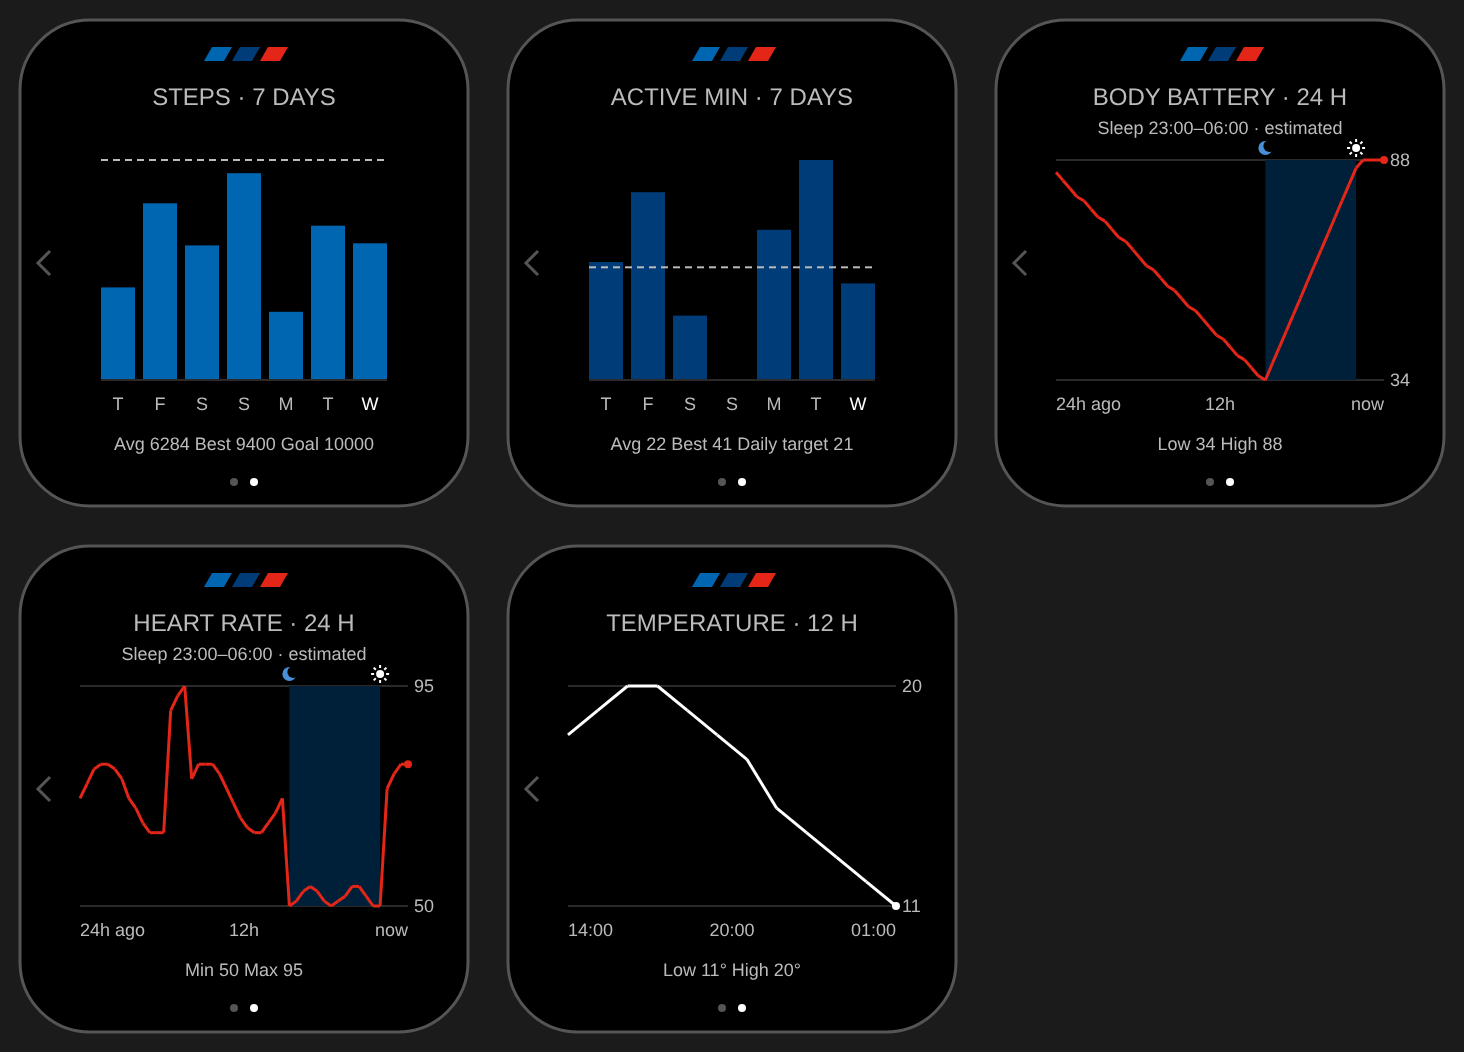
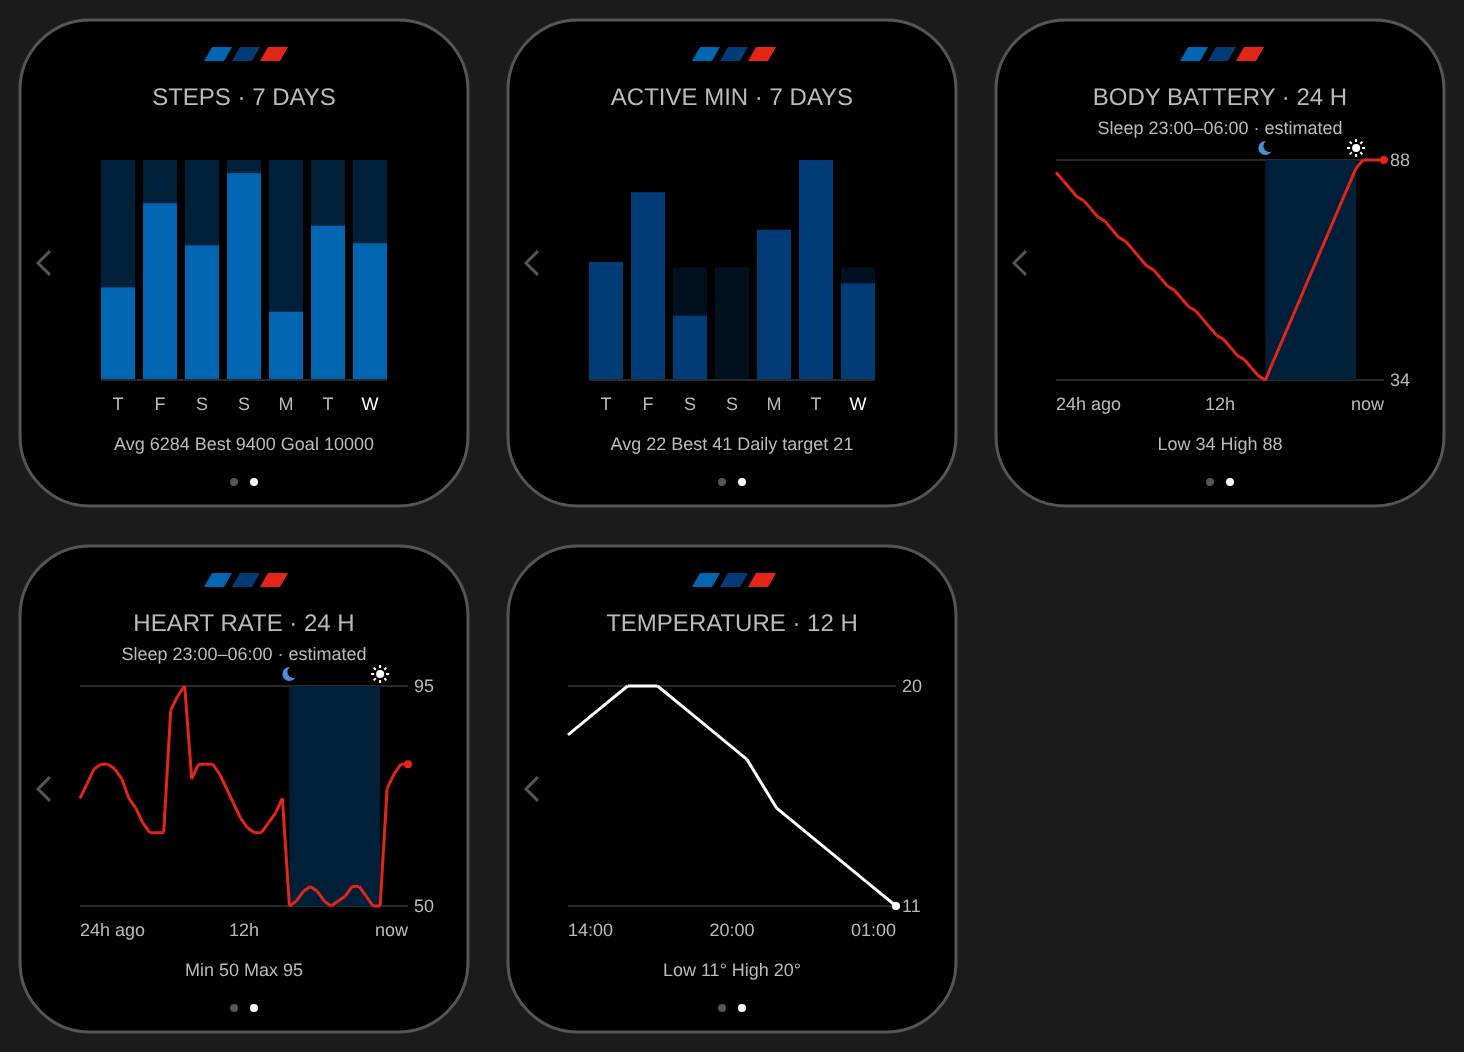
Make the 7-day bars gauges and share one colour per metric
Replace the dashed goal line with a dark track up to the goal behind each day's
bar, using the same dim tint as the dial gauges. Add Theme.metricColor() as the
single source for a metric's colour (steps blue, active minutes navy, body
battery and heart rate red) and use it for the dial rings, the Activity page,
the metric pages and the graphs. drawRing now derives its track tint from
Theme.dimOf(). Update the wireframe tool and README to match.

Claude-Session: https://claude.ai/code/session_01CEiR5mX4CwQUtKoZKTxSUA

Changed region(s): [[0.0615, 0.1521, 0.2766, 0.3042], [0.4611, 0.2433, 0.5225, 0.365], [0.5533, 0.2433, 0.6148, 0.2738]]

diff --git a/tools/wireframes.py b/tools/wireframes.py
@@ -63,6 +63,8 @@ Y_CAPTION = num("Y_CAPTION")
 ACTIVITY_ROW_TOP, ACTIVITY_ROW_PITCH = num("ACTIVITY_ROW_TOP"), num("ACTIVITY_ROW_PITCH")
 BAR_COLS_W, BAR_COLS_GAP = num("BAR_COLS_W"), num("BAR_COLS_GAP")
 DIM = {BLUE: BLUE_DIM, NAVY: NAVY_DIM, RED: RED_DIM}
+# Theme.metricColor(): one colour per metric everywhere
+METRIC = {"steps": BLUE, "active": NAVY, "body": RED, "hr": RED}
 
 # approximate pixel heights of the Garmin system fonts, per Theme font role
 FONT_PX = {"label": 18, "value": 22, "title": 24, "hero": 96}
@@ -172,7 +174,7 @@ def dial(zones=False):
     s.add('<rect x="-30" y="-30" width="%d" height="%d" fill="#1b1b1b"/>' % (W + 60, H + 60))
     screen(s)
     # ring track + fill: a 60 degree wedge, 240..300, fill runs left to right
-    for i, (c, frac) in enumerate([(BLUE, .62), (NAVY, .45), (RED, .78)]):
+    for i, (c, frac) in enumerate([(METRIC["steps"], .62), (METRIC["active"], .45), (METRIC["body"], .78)]):
         rad = RING_OUT - i * PITCH
         s.arc(CX, CY, rad, 240, 300, DIM[c], RING_W)
         s.arc(CX, CY, rad, 240, 240 + 60 * frac, c, RING_W)
@@ -335,24 +337,23 @@ def pages():
 
 # ---------------------------------------------------------------- graph pages
 def bar_chart(s, vals, goal, color, labels):
+    """Each day is a vertical gauge: dim track up to the goal, bright fill to the value."""
     n = len(vals)
     total = n * BAR_COLS_W + (n - 1) * BAR_COLS_GAP
     x0 = W / 2 - total / 2
     maxv = max([goal or 0] + [v for v in vals if v is not None]) or 1
     for i, v in enumerate(vals):
         x = x0 + i * (BAR_COLS_W + BAR_COLS_GAP)
+        if goal:
+            th = goal * (CHART_BOTTOM - CHART_TOP) / maxv
+            s.add('<rect x="%.1f" y="%.1f" width="%d" height="%.1f" fill="%s"/>'
+                  % (x, CHART_BOTTOM - th, BAR_COLS_W, th, DIM.get(color, GREY_DARK)))
         if v is not None:
             hgt = v * (CHART_BOTTOM - CHART_TOP) / maxv
             s.add('<rect x="%.1f" y="%.1f" width="%d" height="%.1f" fill="%s"/>'
                   % (x, CHART_BOTTOM - hgt, BAR_COLS_W, hgt, color))
         s.text(x + BAR_COLS_W / 2, Y_XLABELS, labels[i], "label", WHITE if i == n - 1 else GREY_LIGHT)
     s.line((x0, CHART_BOTTOM), (x0 + total, CHART_BOTTOM), GREY_DARK, 2)
-    if goal:
-        gy = CHART_BOTTOM - goal * (CHART_BOTTOM - CHART_TOP) / maxv
-        gx = x0
-        while gx < x0 + total:
-            s.line((gx, gy), (gx + 7, gy), GREY_LIGHT, 2)
-            gx += 12
 
 
 def find_sleep(hr, bb):
@@ -476,13 +477,13 @@ def graphs():
     temp = [18, 19, 20, 20, 19, 18, 17, 15, 14, 13, 12, 11]
 
     graph_page(s, 0, 0, "STEPS · 7 DAYS", "Avg 6284   Best 9400   Goal 10000",
-               lambda: bar_chart(s, steps, 10000, BLUE, days))
+               lambda: bar_chart(s, steps, 10000, METRIC["steps"], days))
     graph_page(s, px, 0, "ACTIVE MIN · 7 DAYS", "Avg 22   Best 41   Daily target 21",
-               lambda: bar_chart(s, active, 21, NAVY, days))
+               lambda: bar_chart(s, active, 21, METRIC["active"], days))
     graph_page(s, px * 2, 0, "BODY BATTERY · 24 H", "Low %d   High %d" % (min(body), max(body)),
-               lambda: line_chart(s, body, RED, ["24h ago", "12h", "now"], sleep), note)
+               lambda: line_chart(s, body, METRIC["body"], ["24h ago", "12h", "now"], sleep), note)
     graph_page(s, 0, py, "HEART RATE · 24 H", "Min %d   Max %d" % (min(hr), max(hr)),
-               lambda: line_chart(s, hr, RED, ["24h ago", "12h", "now"], sleep), note)
+               lambda: line_chart(s, hr, METRIC["hr"], ["24h ago", "12h", "now"], sleep), note)
     graph_page(s, px, py, "TEMPERATURE · 12 H", "Low 11&#176;   High 20&#176;",
                lambda: line_chart(s, temp, WHITE, ["14:00", "20:00", "01:00"]))
     return s.doc(tw + 40, th + 40, "-20 -20 %d %d" % (tw + 40, th + 40))

diff --git a/README.md b/README.md
@@ -39,7 +39,8 @@ simulator screenshots. They are generated from `source/Theme.mc` by
   - top row: weather (conditions, feels-like, high/low, rain chance, wind,
     humidity, next four hours)
 - Graph pages. Every metric page has a graph page behind it: steps and active
-  minutes for the last 7 days (bars, with the goal line), body battery over 24 hours,
+  minutes for the last 7 days (each day is a small gauge: dark track up to the goal,
+  bright fill to the value, in the same colours as the dial rings), body battery over 24 hours,
   heart rate over 24 hours, and a 12 hour temperature forecast for weather.
 - Sleep on the body battery and heart rate graphs: a faint band with a moon at
   bedtime and a sun at wake time, and a caption saying where it came from. **This is
